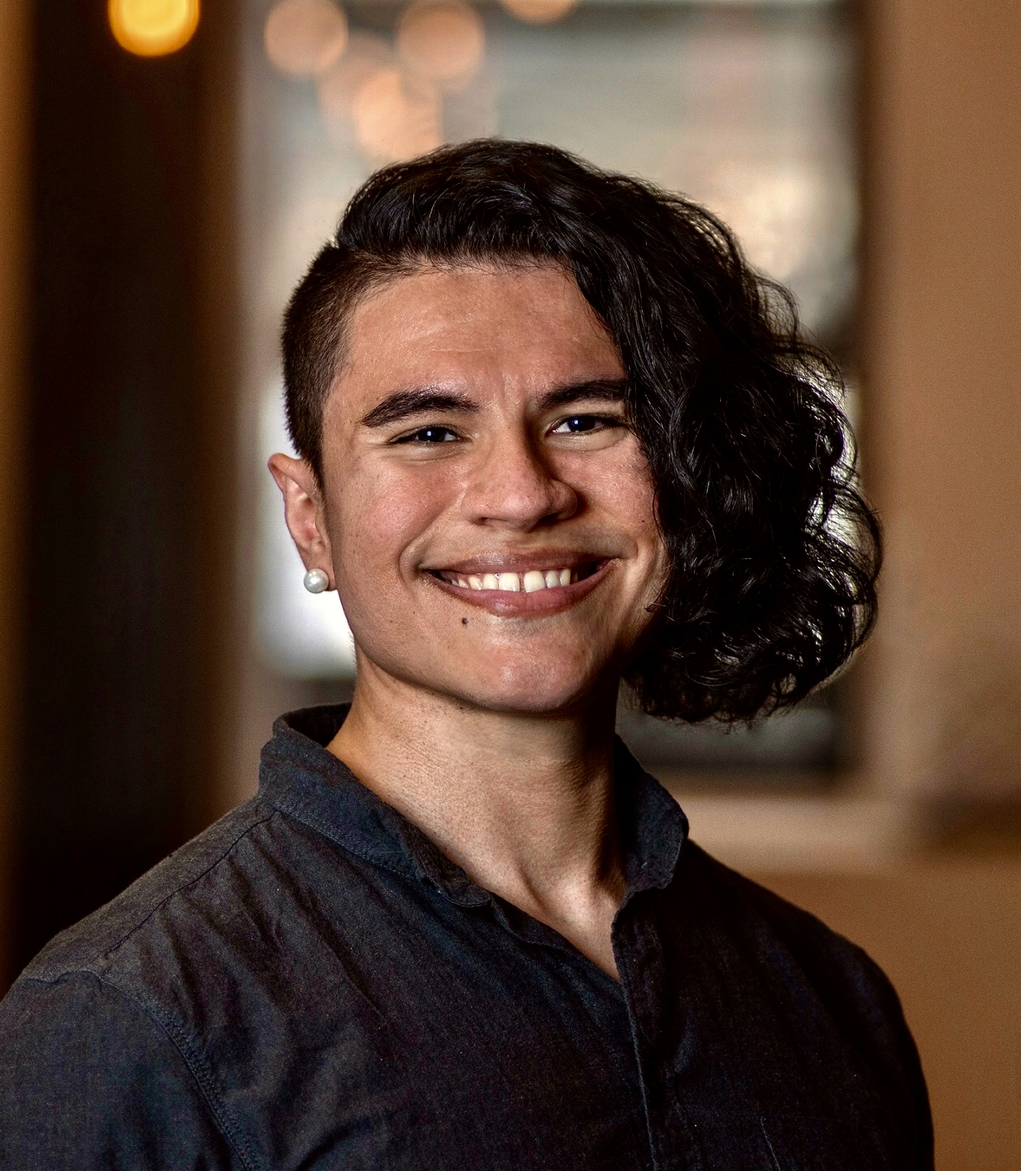
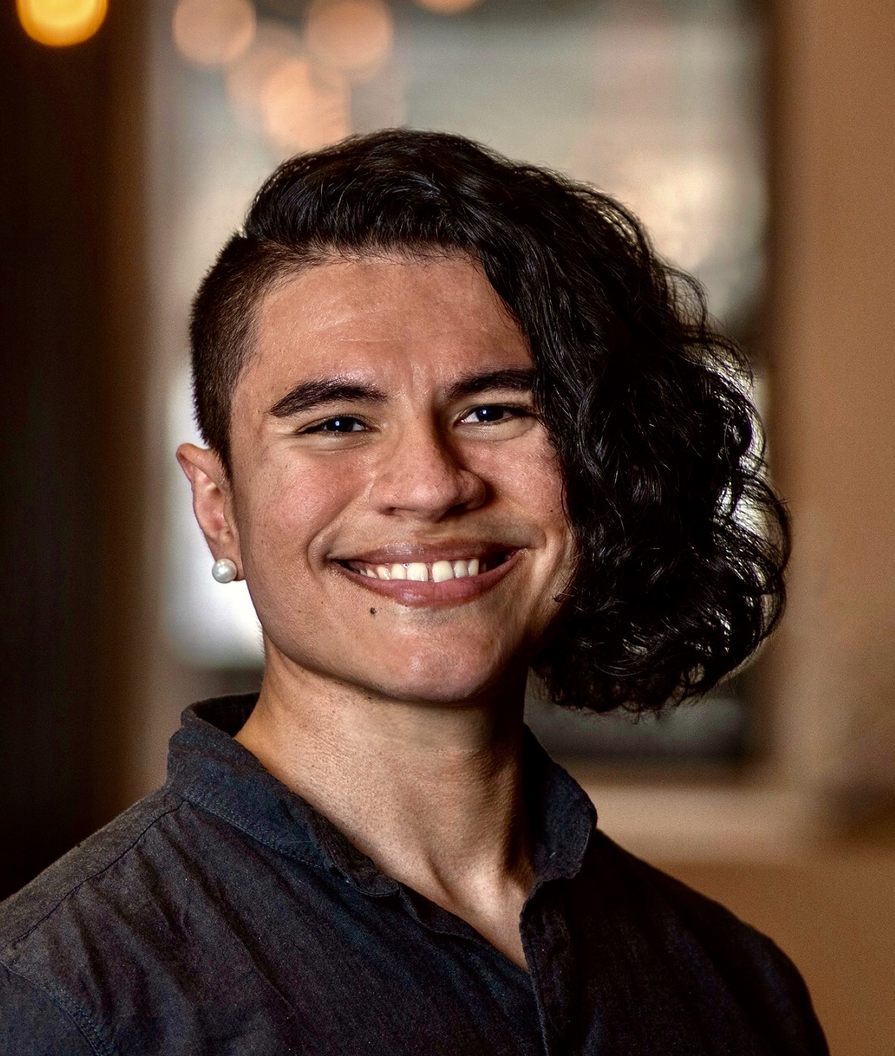
new headshot aspect ratio

diff --git a/index.html b/index.html
@@ -21,7 +21,7 @@
 				<!-- Header -->
 					<header id="header">
                             <div class="1u">
-                        		<img src="images/Pro_headshot.jpg" alt="" height="200" width="174.4">
+                        		<img src="images/Pro_headshot.jpg" alt="" height="200" width="169">
 
 <!--                                 <a href="https://kjaehnig.github.io/images/Pro_headshot.jpg" target="_blank" class="image fit"><img src="images/Pro_headshot.jpg" alt="" /></a> -->
                             </div>
